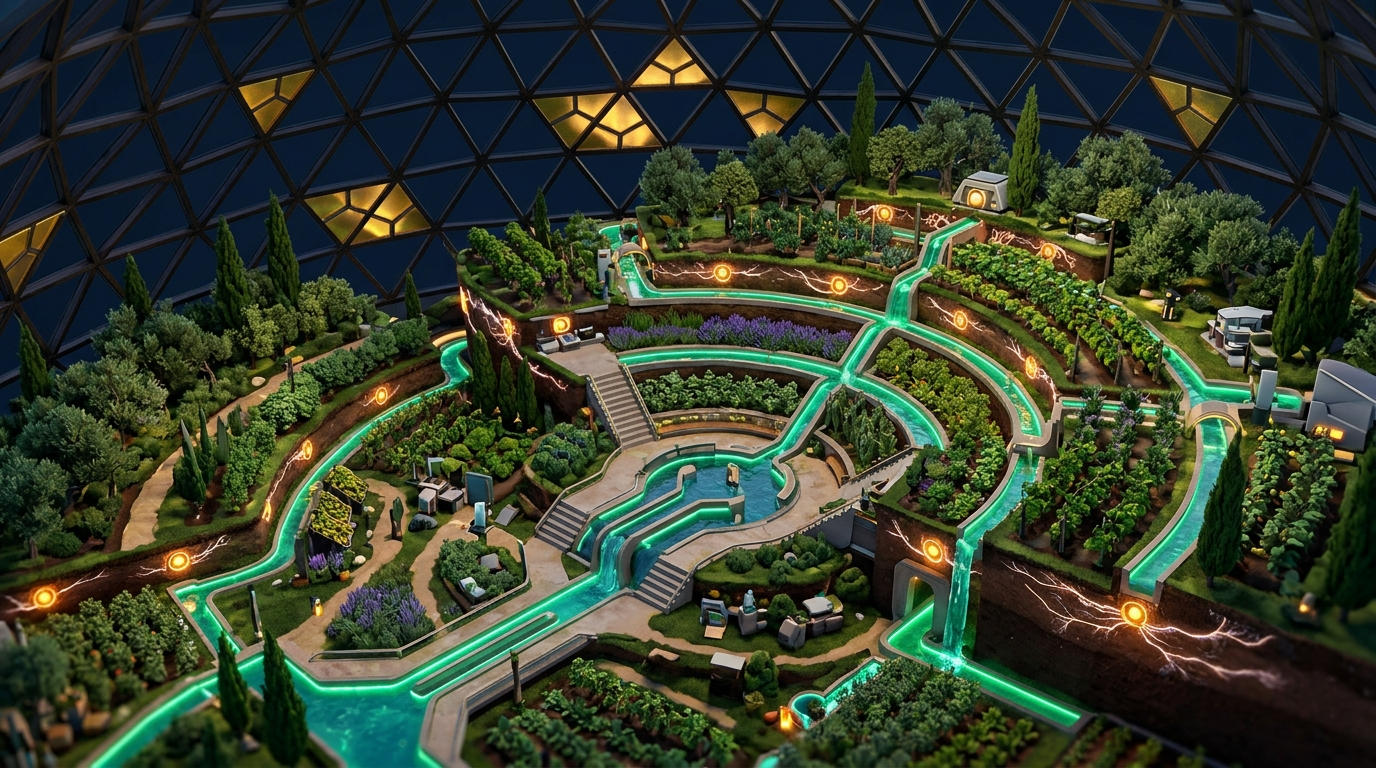
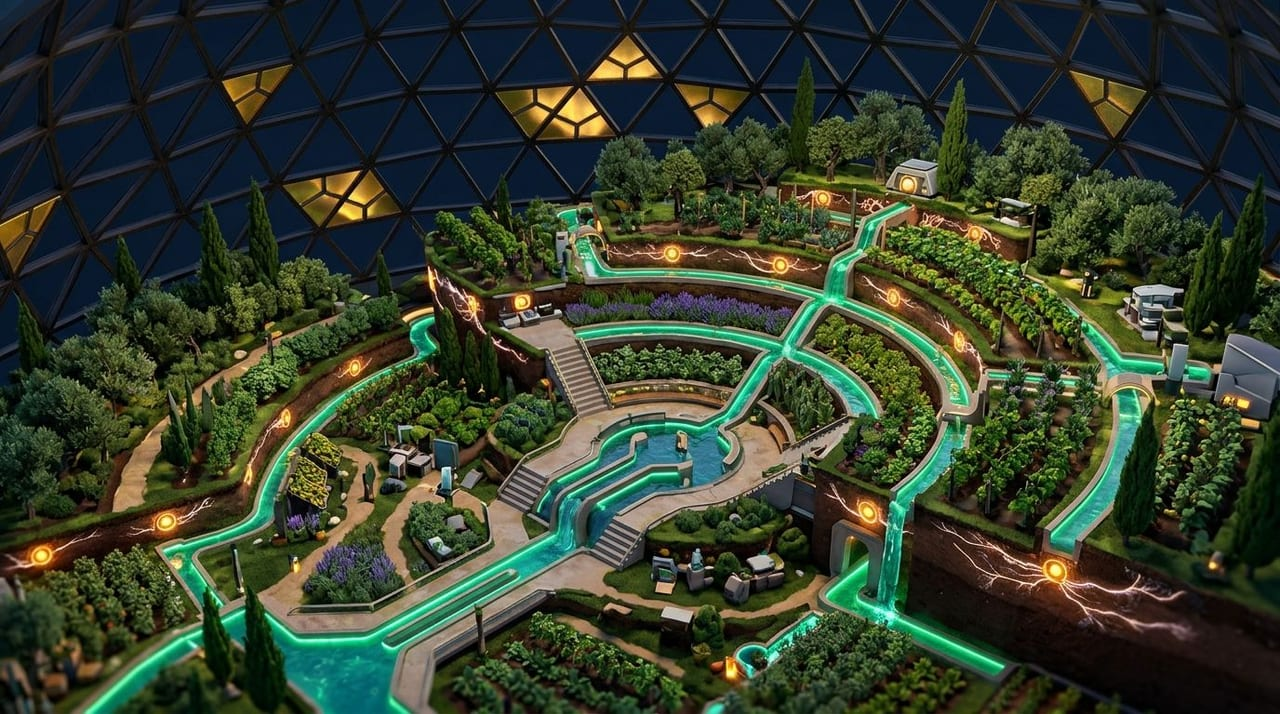
perf(lcp): serve responsive WebP images, preload hero and self-host WOFF2 fonts (#16)

Changed region(s): [[0.2188, 0.6471, 0.25, 0.7087]]

diff --git a/src/styles/global.css b/src/styles/global.css
@@ -15,8 +15,8 @@
   --radius: 2px;
   --max-width: 1180px;
 
-  --font-serif: "Fraunces", Georgia, "Times New Roman", serif;
-  --font-sans: "DM Sans", system-ui, -apple-system, "Segoe UI", Roboto, sans-serif;
+  --font-serif: "Fraunces Variable", "Fraunces", Georgia, "Times New Roman", serif;
+  --font-sans: "DM Sans Variable", "DM Sans", system-ui, -apple-system, "Segoe UI", Roboto, sans-serif;
   --font-mono: "IBM Plex Mono", ui-monospace, SFMono-Regular, Menlo, Consolas, monospace;
 }
 

diff --git a/docs/journal-usage-ia.md b/docs/journal-usage-ia.md
@@ -18,6 +18,7 @@
 | 2026-11-16 | Kit Instagram (`@flexarion` & `@flexarion_official`) | **Gemini 4 Hydrogen** | Rédiger les bios (≤150 car.), stratégie anti-cannibalisation et calendrier des 8 premiers posts. | Publication et adaptation humaine des légendes en temps réel lors du lancement CM2/TD2. |
 | 2026-11-16 | Correctif éthique & transparence académique | **Gemini 4 Hydrogen** (sur alerte critique de l'étudiant) | Supprimer le faux prix/précommande JSON-LD et ajouter un disclaimer académique IUT d'Aix-Marseille explicite sans casser le storytelling. | Excellent exemple d'esprit critique humain face à l'IA : l'étudiant a détecté le risque de tromperie commerciale sur un site public indexé. |
 | 2026-11-16 | Refonte éditoriale anti-AI-slop | **Gemini 4 Hydrogen** + Recherche Web design 2026 | Identifier les marqueurs visuels typiques des sites générés par IA (dark mode néon, pill badges, grilles de cartes identiques, surusage de `—`) et refondre en monographie calcaire (`Fraunces` / `DM Sans` / `IBM Plex Mono`). | Passage d'une UI générique sombre à une direction artistique provençale sur-mesure vérifiée visuellement sur navigateur local. |
+| 2026-11-16 | Optimisation LCP & RGPD suite à Lighthouse | **Gemini 4 Hydrogen** (d'après audit Lighthouse 13.5 fourni par l'étudiant : LCP 1,6s / score 0,75) | Compression WebP responsive (`sharp` : 1,15 Mo -> 61 Ko WebP 640w), `fetchpriority="high"` + preload, et auto-hébergement local des polices WOFF2 (`@fontsource`). | Suppression du CSS bloquant Google Fonts (bonus RGPD) et gain majeur sur le poids de la page d'accueil. |
 
 ---
 
